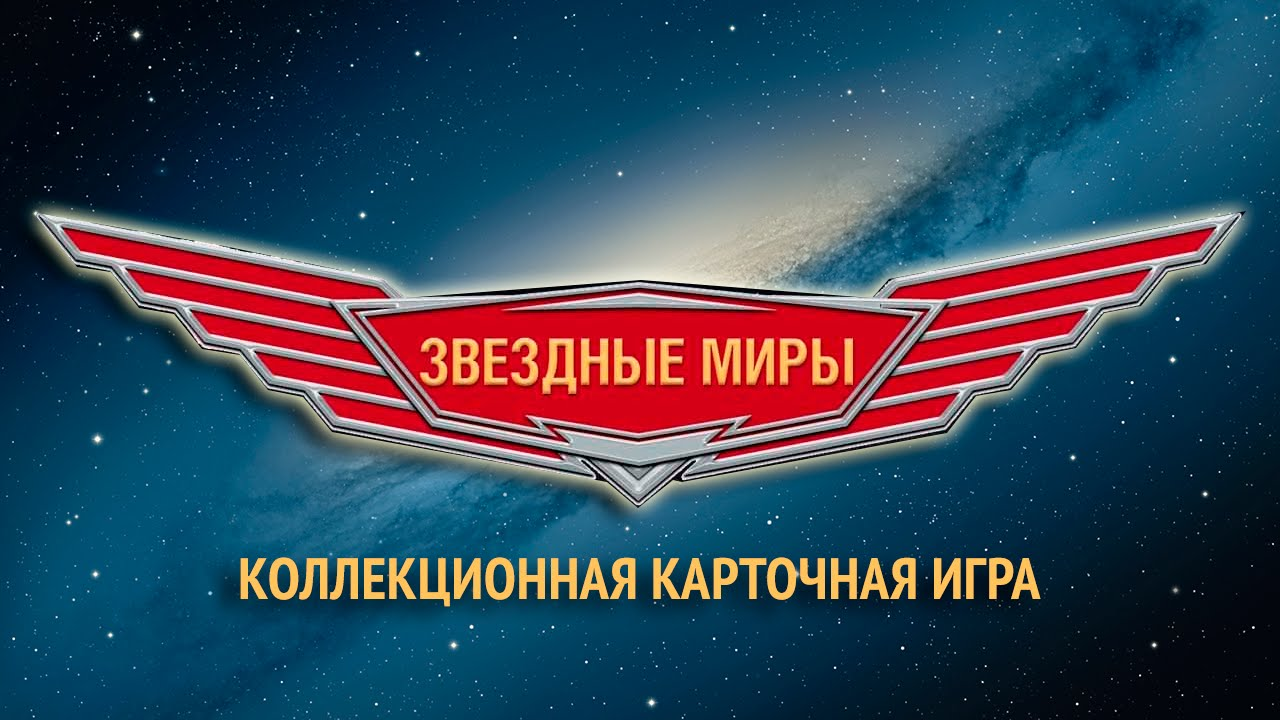
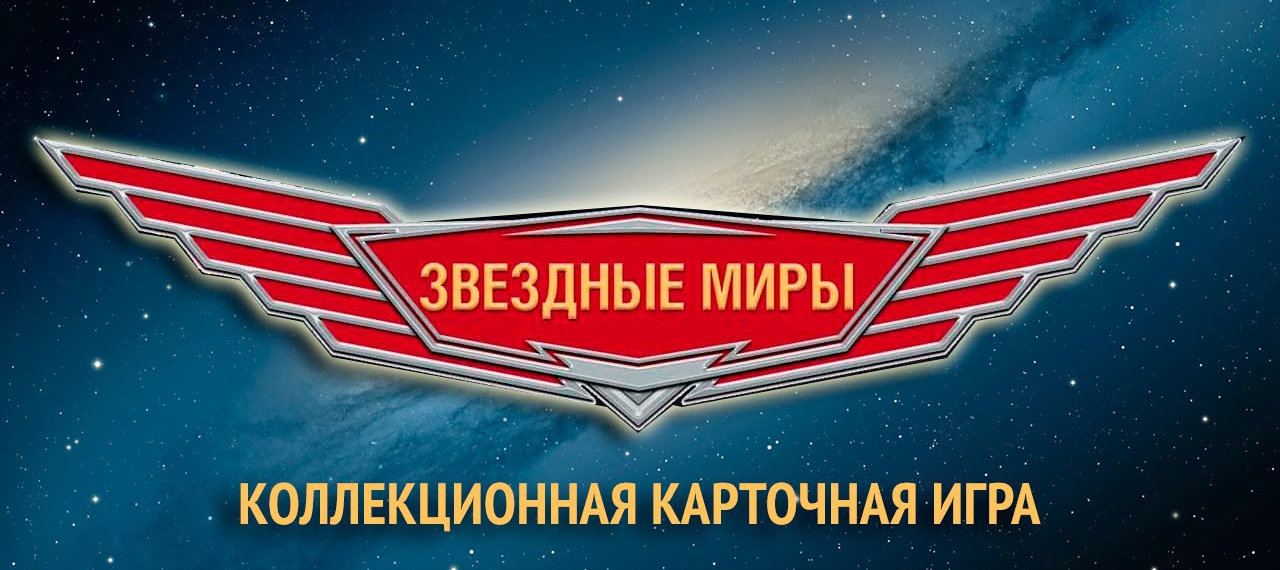
cut images to 1280x570px on homepage

diff --git a/templates/carousel.html b/templates/carousel.html
@@ -16,10 +16,10 @@
             <a class="info" name="game_page" href="game_page/{{featured[0]['proj_url']}}">
                 <img class="d-block w-100" src={{ featured[0]['proj_img'] }} alt = {{ featured[0]['proj_name'] }}>
             </a>
-            <div class="carousel-caption d-none d-md-block">
-                <h3> {{ featured[0]['proj_name'] }}</h3>
-                <p> {{ featured[0]['proj_desc'] }} </p>
-            </div>
+            <!--<div class="carousel-caption d-none d-md-block">-->
+                <!--<h3> {{ featured[0]['proj_name'] }}</h3>-->
+                <!--<p> {{ featured[0]['proj_desc'] }} </p>-->
+            <!--</div>-->
         </div>
         {% if feature_num_rows > 1 %}
         {% for feature, value in featured %}
